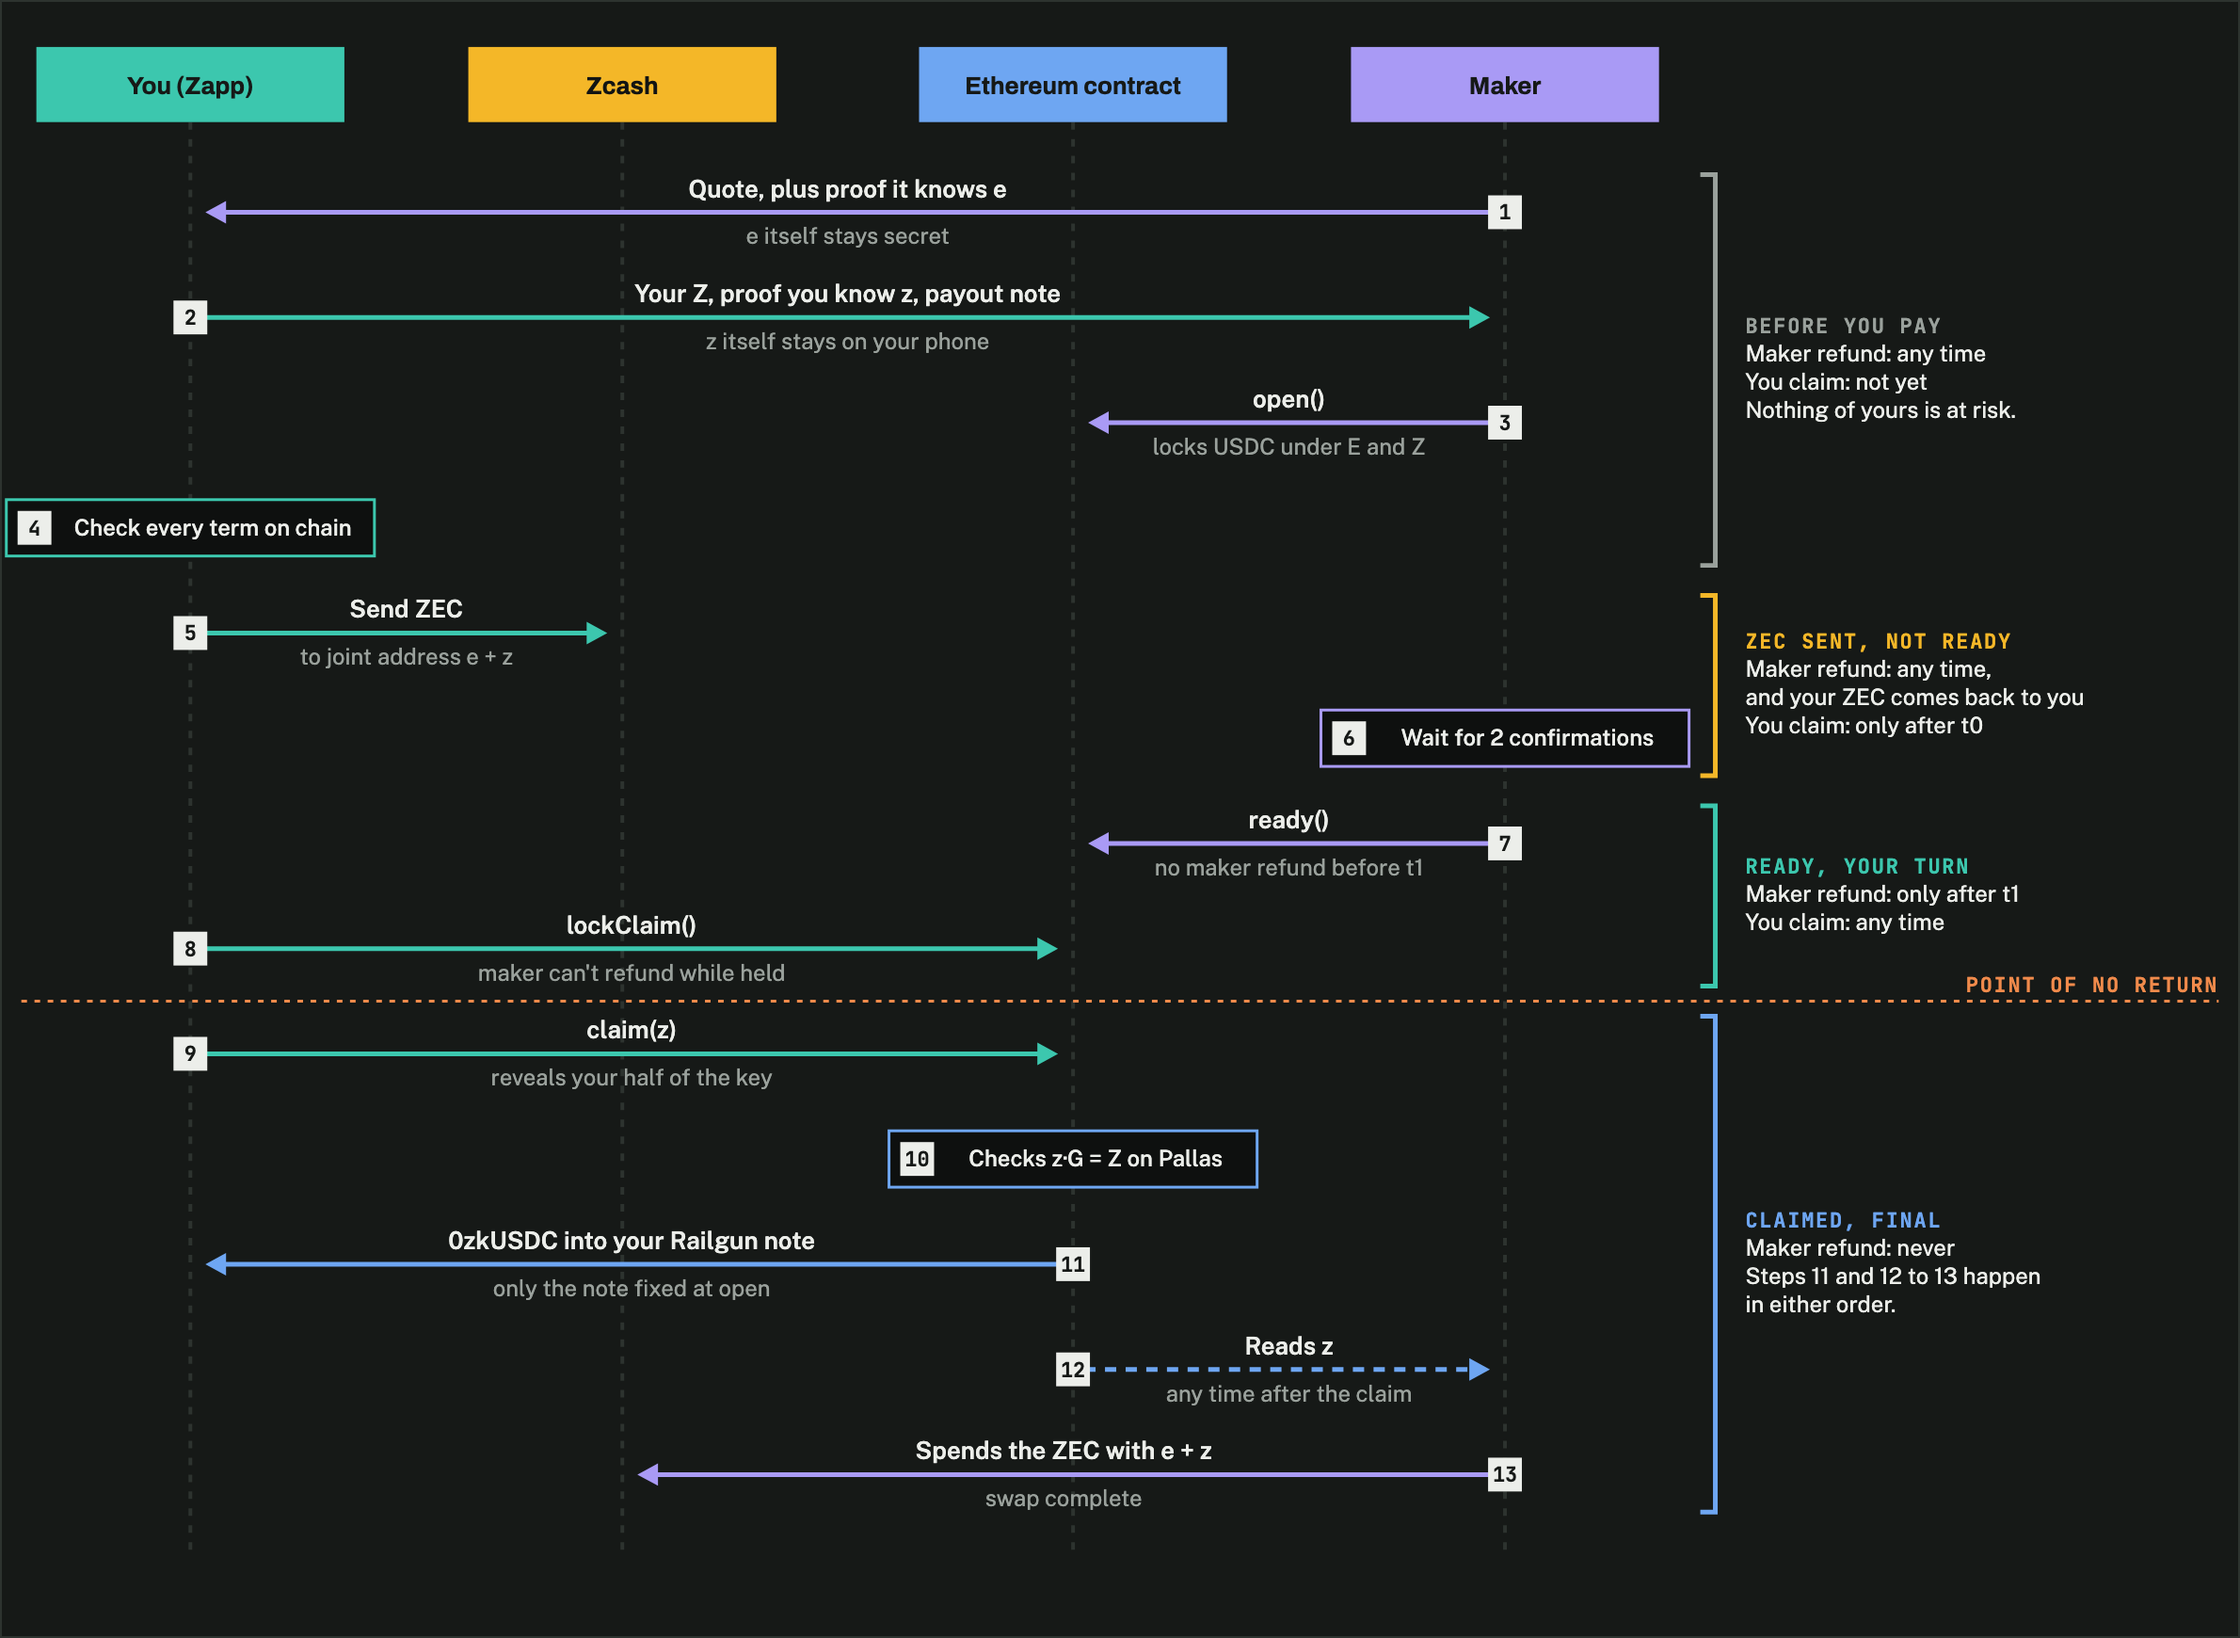
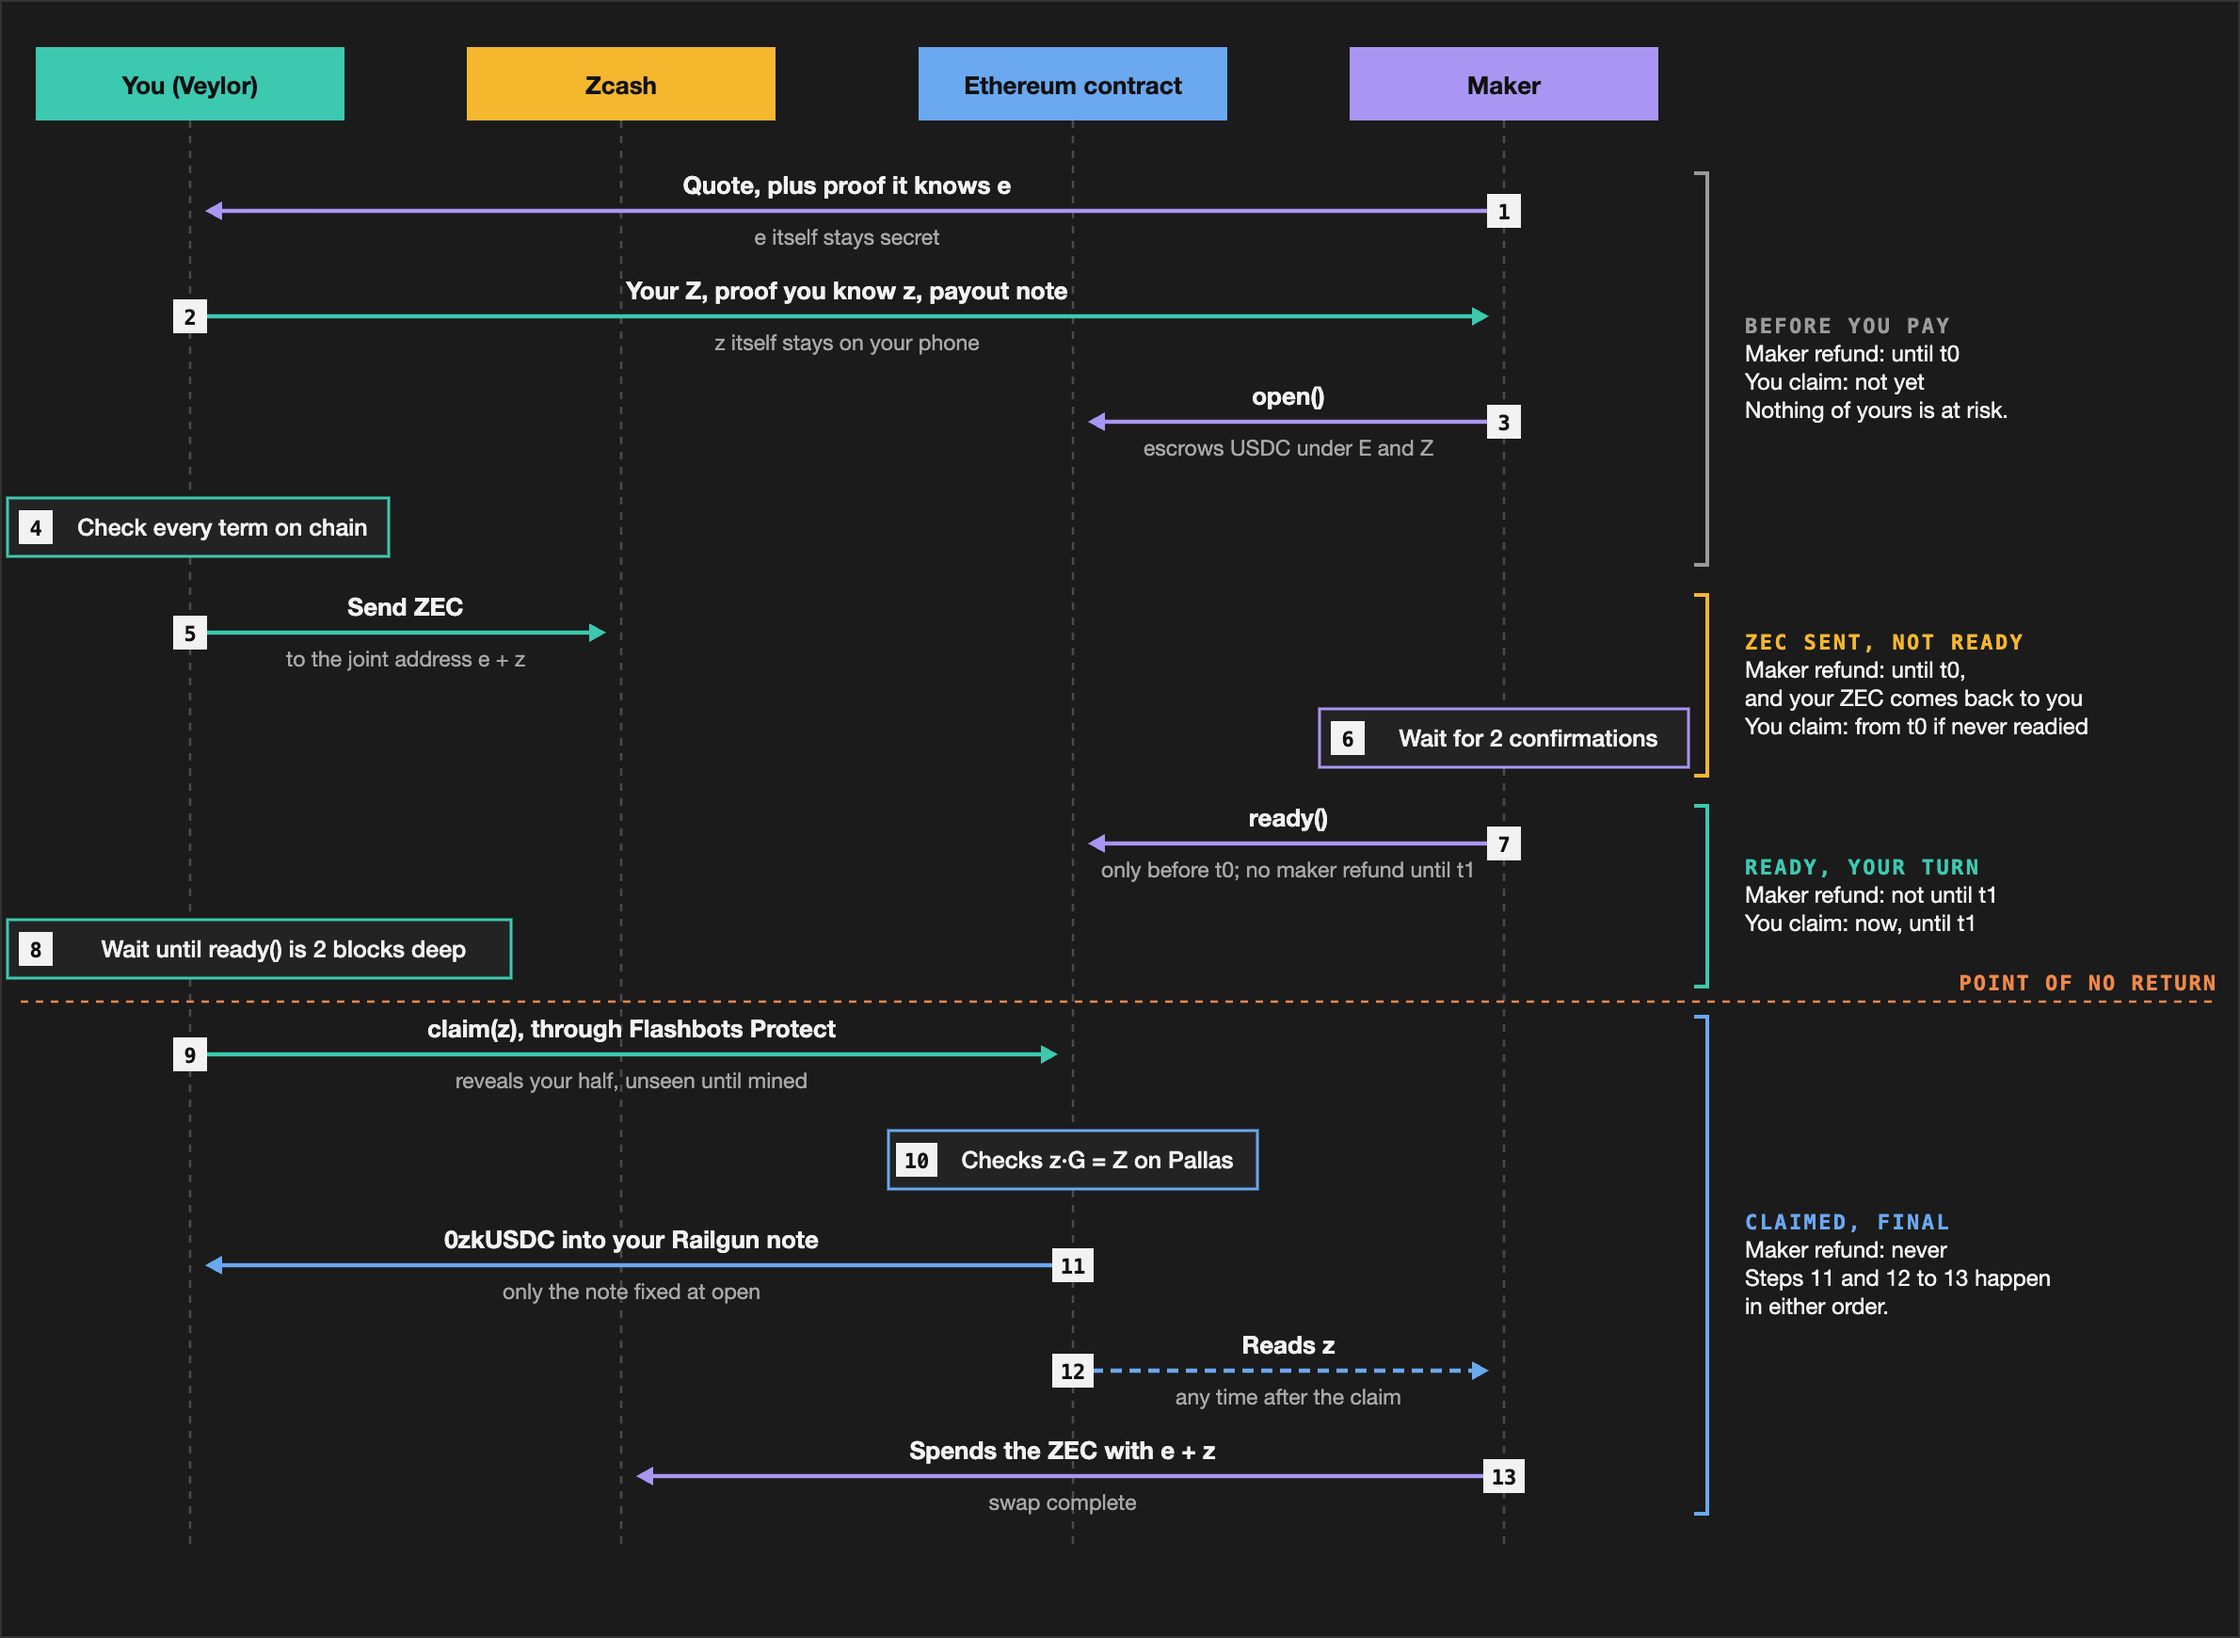
docs(readme): describe mainnet's windows contract and redraw the swap for it

diff --git a/docs/images/swap-flow.py b/docs/images/swap-flow.py
@@ -1,0 +1,131 @@
+"""Draws the README's sequence diagram of a ZEC to USDC swap, light and dark, as HTML pages to screenshot:
+
+    python3 docs/images/swap-flow.py "$dir"
+    for t in light dark; do "/Applications/Google Chrome.app/Contents/MacOS/Google Chrome" --headless=new \
+        --hide-scrollbars --force-device-scale-factor=2 --window-size=1190,870 \
+        --screenshot=docs/images/swap-flow-$t.png "file://$dir/$t.html"; done
+"""
+import html
+import sys
+
+W, H = 1190, 870
+LANES = {"you": 101, "zec": 330, "eth": 570, "maker": 799}
+HEAD_W, HEAD_H, HEAD_Y = 164, 39, 25
+ROW0, STEP = 112, 56
+
+THEMES = {
+    "light": dict(bg="#ffffff", frame="#d0d0d0", text="#111111", sub="#555555", life="#c8c8c8",
+                  badge_bg="#111111", badge_fg="#ffffff", box_bg="#f4f4f4",
+                  you="#0f7a64", zec="#f4b72e", eth="#1f5fc8", maker="#6a55c9", zec_fg="#111111",
+                  head_fg="#ffffff", gray="#555555", amber="#b07d10", nr="#b5480b"),
+    "dark": dict(bg="#1b1b1b", frame="#333333", text="#f2f2f2", sub="#a8a8a8", life="#4a4a4a",
+                 badge_bg="#f2f2f2", badge_fg="#111111", box_bg="#232323",
+                 you="#3cc9b0", zec="#f4b72e", eth="#6aa8f0", maker="#a996f2", zec_fg="#111111",
+                 head_fg="#111111", gray="#9a9a9a", amber="#f4b72e", nr="#f0884a"),
+}
+
+HEADS = [("you", "You (Veylor)"), ("zec", "Zcash"), ("eth", "Ethereum contract"), ("maker", "Maker")]
+
+# (kind, from, to, label, sublabel, colour key, dashed)
+STEPS = [
+    ("arrow", "maker", "you", "Quote, plus proof it knows e", "e itself stays secret", "maker", False),
+    ("arrow", "you", "maker", "Your Z, proof you know z, payout note", "z itself stays on your phone", "you", False),
+    ("arrow", "maker", "eth", "open()", "escrows USDC under E and Z", "maker", False),
+    ("box", "you", None, "Check every term on chain", None, "you", False),
+    ("arrow", "you", "zec", "Send ZEC", "to the joint address e + z", "you", False),
+    ("box", "maker", None, "Wait for 2 confirmations", None, "maker", False),
+    ("arrow", "maker", "eth", "ready()", "only before t0; no maker refund until t1", "maker", False),
+    ("box", "you", None, "Wait until ready() is 2 blocks deep", None, "you", False),
+    ("arrow", "you", "eth", "claim(z), through Flashbots Protect", "reveals your half, unseen until mined", "you", False),
+    ("box", "eth", None, "Checks z·G = Z on Pallas", None, "eth", False),
+    ("arrow", "eth", "you", "0zkUSDC into your Railgun note", "only the note fixed at open", "eth", False),
+    ("arrow", "eth", "maker", "Reads z", "any time after the claim", "eth", True),
+    ("arrow", "maker", "zec", "Spends the ZEC with e + z", "swap complete", "maker", False),
+]
+
+# (first step, last step, colour key, title, lines)
+PHASES = [
+    (1, 4, "gray", "BEFORE YOU PAY", ["Maker refund: until t0", "You claim: not yet", "Nothing of yours is at risk."]),
+    (5, 6, "amber", "ZEC SENT, NOT READY",
+     ["Maker refund: until t0,", "and your ZEC comes back to you", "You claim: from t0 if never readied"]),
+    (7, 8, "you", "READY, YOUR TURN", ["Maker refund: not until t1", "You claim: now, until t1"]),
+    (9, 13, "eth", "CLAIMED, FINAL",
+     ["Maker refund: never", "Steps 11 and 12 to 13 happen", "in either order."]),
+]
+NO_RETURN_AFTER = 8
+
+SANS = "-apple-system, 'Inter', 'Helvetica Neue', Arial, sans-serif"
+MONO = "'SF Mono', Menlo, 'JetBrains Mono', monospace"
+
+
+def row_y(i):
+    return ROW0 + STEP * (i - 1)
+
+
+def text(x, y, s, size, fill, weight=400, anchor="middle", family=SANS, spacing=0):
+    return (f'<text x="{x}" y="{y}" font-family="{family}" font-size="{size}" font-weight="{weight}" '
+            f'fill="{fill}" text-anchor="{anchor}" letter-spacing="{spacing}">{html.escape(s)}</text>')
+
+
+def badge(cx, cy, n, t):
+    w = 18 if n < 10 else 22
+    return (f'<rect x="{cx - w / 2}" y="{cy - 9}" width="{w}" height="18" fill="{t["badge_bg"]}"/>'
+            + text(cx, cy + 4.5, str(n), 11, t["badge_fg"], 700, family=MONO))
+
+
+def draw(t):
+    out = [f'<rect width="{W}" height="{H}" fill="{t["bg"]}"/>',
+           f'<rect x="0.5" y="0.5" width="{W - 1}" height="{H - 1}" fill="none" stroke="{t["frame"]}"/>']
+    for key, name in HEADS:
+        x = LANES[key]
+        out.append(f'<line x1="{x}" y1="{HEAD_Y + HEAD_H}" x2="{x}" y2="{H - 48}" stroke="{t["life"]}" '
+                   f'stroke-width="1.3" stroke-dasharray="4 4"/>')
+        out.append(f'<rect x="{x - HEAD_W / 2}" y="{HEAD_Y}" width="{HEAD_W}" height="{HEAD_H}" fill="{t[key]}"/>')
+        fg = t["zec_fg"] if key == "zec" else t["head_fg"]
+        out.append(text(x, HEAD_Y + 25, name, 13, fg, 700))
+
+    nr_y = (row_y(NO_RETURN_AFTER) + row_y(NO_RETURN_AFTER + 1)) / 2
+    out.append(f'<line x1="11" y1="{nr_y}" x2="{W - 11}" y2="{nr_y}" stroke="{t["nr"]}" stroke-width="1.3" '
+               f'stroke-dasharray="4 4"/>')
+    out.append(text(W - 12, nr_y - 6, "POINT OF NO RETURN", 11, t["nr"], 700, "end", MONO, 1))
+
+    for i, (kind, src, dst, label, sub, colour, dashed) in enumerate(STEPS, start=1):
+        y, c, x0 = row_y(i), t[colour], LANES[src]
+        if kind == "box":
+            w = 40 + len(label) * 6.5
+            left = max(4, min(x0 - w / 2, W - 12 - w))
+            out.append(f'<rect x="{left}" y="{y - 15.5}" width="{w}" height="31" fill="{t["box_bg"]}" '
+                       f'stroke="{c}" stroke-width="1.5"/>')
+            out.append(badge(left + 15, y, i, t))
+            out.append(text(left + 30 + (w - 34) / 2, y + 4.5, label, 12.5, t["text"], 500))
+            continue
+        x1 = LANES[dst]
+        tip = x1 - 8 if x1 > x0 else x1 + 8
+        head = 9 if x1 > x0 else -9
+        dash = ' stroke-dasharray="6 4"' if dashed else ""
+        out.append(f'<line x1="{x0}" y1="{y}" x2="{tip - head}" y2="{y}" stroke="{c}" stroke-width="2.2"{dash}/>')
+        out.append(f'<path d="M{tip} {y} L{tip - head} {y - 5} L{tip - head} {y + 5} Z" fill="{c}"/>')
+        mid = (x0 + x1) / 2
+        out.append(text(mid, y - 9, label, 13, t["text"], 600))
+        out.append(text(mid, y + 18, sub, 11.5, t["sub"]))
+        out.append(badge(x0, y, i, t))
+
+    bx = 907
+    for first, last, colour, title, lines in PHASES:
+        c = t[colour]
+        top, bottom = row_y(first) - 20, row_y(last) + 20
+        out.append(f'<path d="M{bx - 7} {top} H{bx} V{bottom} H{bx - 7}" fill="none" stroke="{c}" stroke-width="2"/>')
+        block = 15 * (len(lines) + 1)
+        y = (top + bottom) / 2 - block / 2 + 11
+        out.append(text(bx + 20, y, title, 11, c, 700, "start", MONO, 1.2))
+        for line in lines:
+            y += 15
+            out.append(text(bx + 20, y, line, 12, t["text"], 400, "start"))
+    return (f'<!doctype html><meta charset="utf-8"><style>html,body{{margin:0;background:{t["bg"]}}}</style>'
+            f'<svg xmlns="http://www.w3.org/2000/svg" width="{W}" height="{H}" viewBox="0 0 {W} {H}">'
+            + "".join(out) + "</svg>")
+
+
+for name, theme in THEMES.items():
+    with open(f"{sys.argv[1]}/{name}.html", "w") as f:
+        f.write(draw(theme))

diff --git a/README.md b/README.md
@@ -6,23 +6,25 @@ maker (`e`) and the user (`z`); an Ethereum contract pays out against whichever 
 revealed, verifying it on Pallas. Nothing touches a transparent address, no Ethereum account of
 the user's appears on-chain, and nothing is custodied: every failure ends in a refund.
 
-Running in beta on Ethereum mainnet:
-[`0x4708D7d36992b7e33Ad97a1ab0A31c3ac6C4fe6D`](https://etherscan.io/address/0x4708D7d36992b7e33Ad97a1ab0A31c3ac6C4fe6D#code),
-source verified on Etherscan. The Sepolia testnet runs its successor, the windows contract, at
+Running on Ethereum mainnet since 2026-10-22, in beta and not yet externally audited:
+[`0xeB3A00bcB6c9fF626fE57a5dBbDCf01730e7898f`](https://etherscan.io/address/0xeB3A00bcB6c9fF626fE57a5dBbDCf01730e7898f),
+the windows contract, with a one-hour minimum window and a 24-hour late window. It replaced the
+beta's lock contract. The Sepolia testnet runs the same contract, with shorter windows, at
 [`0x459b0a69e0f736666b66a3ffe0fc17c11f05980d`](https://sepolia.etherscan.io/address/0x459b0a69e0f736666b66a3ffe0fc17c11f05980d).
 
 ## How a swap works
 
-The normal path of a ZEC to USDC swap, start to finish, on the mainnet contract.
-[The full explainer](https://claude.ai/artifact/RY2zKsM5x7Yc1nyBn23gRg) adds the deadlines, what
-happens when something goes wrong, and the USDC to ZEC direction. Both show its claim lock, step
-8 below. The windows contract has none: at every moment at most one side may reveal its half, by
-the deadlines and the swap's stage alone, and you claim as soon as the swap is ready, or from `t0`
-if the maker never readies it, until `t1`.
+The normal path of a ZEC to USDC swap, start to finish. At every moment at most one side may
+reveal its half of the key, by the deadlines and the swap's stage alone. You claim once the maker
+has readied the swap, or from `t0` if it never does, until `t1`. The maker may take its USDC back
+only from an unready swap before `t0`, or for a day from `t1`, after which the claim is yours for
+good. Claims and refunds go through Flashbots Protect, so a half stays out of the public mempool
+until it is mined. [The reverse flow guide](docs/reverse-flow.md) covers the USDC to ZEC
+direction.
 
 <picture>
   <source media="(prefers-color-scheme: dark)" srcset="docs/images/swap-flow-dark.png">
-  <img alt="Sequence diagram of a ZEC to USDC swap between you (Zapp), Zcash, the Ethereum contract and the maker, in thirteen steps from quote to the maker spending the ZEC" src="docs/images/swap-flow-light.png">
+  <img alt="Sequence diagram of a ZEC to USDC swap between you (Veylor), Zcash, the Ethereum contract and the maker, in thirteen steps from quote to the maker spending the ZEC" src="docs/images/swap-flow-light.png">
 </picture>
 
 ## Layout
@@ -81,3 +83,7 @@ Deploy the contract with `contracts/script/Deploy.s.sol`; on Sepolia, whose repr
 `forge script` misjudges, use `deploy/testnet/deploy-windows.sh`, and on mainnet
 `scripts/deploy-contract.sh`.
 [The deployment guide](docs/deployment.md) covers the hosted maker, relayer and token issuer.
+
+## License
+
+Apache-2.0: see [`LICENSE`](LICENSE).
